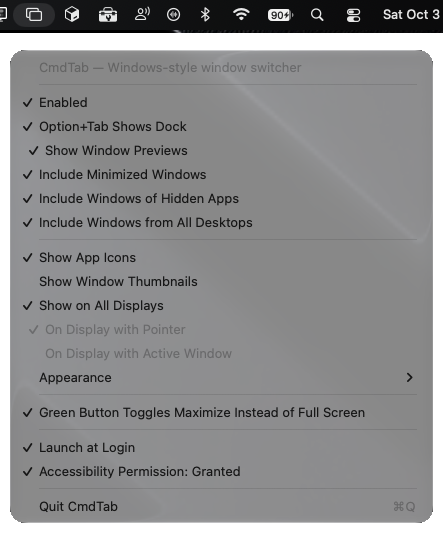
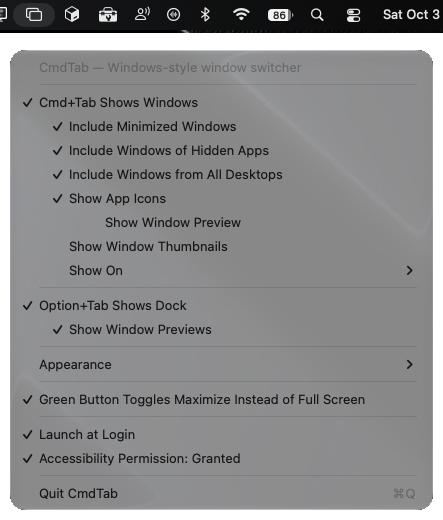
refactor: add switcher window preview option and reorganize menu structure

diff --git a/Sources/AppDelegate.swift b/Sources/AppDelegate.swift
@@ -5,7 +5,7 @@ enum Settings {
     private static let d = UserDefaults.standard
 
     static func register() {
-        d.register(defaults: ["enabled": true, "includeMinimized": true, "includeHiddenApps": true, "includeAllSpaces": false, "dockEnabled": true, "dockPreviews": false, "showOnAllDisplays": true, "switcherDisplay": "pointer", "showThumbnails": false, "appearance": "system", "greenButtonZooms": true])
+        d.register(defaults: ["enabled": true, "includeMinimized": true, "includeHiddenApps": true, "includeAllSpaces": false, "dockEnabled": true, "dockPreviews": false, "switcherPreviews": false, "showOnAllDisplays": true, "switcherDisplay": "pointer", "showThumbnails": false, "appearance": "system", "greenButtonZooms": true])
     }
 
     static var enabled: Bool {
@@ -24,6 +24,11 @@ enum Settings {
     static var dockEnabled: Bool {
         get { d.bool(forKey: "dockEnabled") }
         set { d.set(newValue, forKey: "dockEnabled") }
+    }
+    /// In icon view, the switcher previews the selected window under its icon.
+    static var switcherPreviews: Bool {
+        get { d.bool(forKey: "switcherPreviews") }
+        set { d.set(newValue, forKey: "switcherPreviews") }
     }
     /// The Option+Tab Dock previews the selected app's windows under its icon.
     static var dockPreviews: Bool {
@@ -72,24 +77,29 @@ final class AppDelegate: NSObject, NSApplicationDelegate, NSMenuDelegate {
     private var permissionTimer: Timer?
     private var signalSources: [DispatchSourceSignal] = []
 
-    private let enabledItem = NSMenuItem(title: "Enabled", action: #selector(toggleEnabled), keyEquivalent: "")
+    private let enabledItem = NSMenuItem(title: "Cmd+Tab Shows Windows", action: #selector(toggleEnabled), keyEquivalent: "")
     private let dockItem = NSMenuItem(title: "Option+Tab Shows Dock", action: #selector(toggleDock), keyEquivalent: "")
     private let dockPreviewsItem: NSMenuItem = {
         let item = NSMenuItem(title: "Show Window Previews", action: #selector(toggleDockPreviews), keyEquivalent: "")
-        item.indentationLevel = 1
+        item.indentationLevel = 3
         return item
     }()
     private let minimizedItem = NSMenuItem(title: "Include Minimized Windows", action: #selector(toggleMinimized), keyEquivalent: "")
     private let hiddenItem = NSMenuItem(title: "Include Windows of Hidden Apps", action: #selector(toggleHidden), keyEquivalent: "")
     private let allSpacesItem = NSMenuItem(title: "Include Windows from All Desktops", action: #selector(toggleAllSpaces), keyEquivalent: "")
-    private let allDisplaysItem = NSMenuItem(title: "Show on All Displays", action: #selector(toggleAllDisplays), keyEquivalent: "")
-    private let displayItems = [("On Display with Pointer", "pointer"), ("On Display with Active Window", "activeWindow")].map { title, value in
+    /// The "Show On" choices: every display, or just the one with the pointer or the active window.
+    private let displayItems = [("All Displays", "all"), ("Display with Pointer", "pointer"),
+                                ("Display with Active Window", "activeWindow")].map { title, value in
         let item = NSMenuItem(title: title, action: #selector(setSwitcherDisplay(_:)), keyEquivalent: "")
         item.representedObject = value
-        item.indentationLevel = 1
         return item
     }
     private let iconsItem = NSMenuItem(title: "Show App Icons", action: #selector(showIcons), keyEquivalent: "")
+    private let switcherPreviewItem: NSMenuItem = {
+        let item = NSMenuItem(title: "Show Window Preview", action: #selector(toggleSwitcherPreviews), keyEquivalent: "")
+        item.indentationLevel = 6
+        return item
+    }()
     private let thumbnailsItem = NSMenuItem(title: "Show Window Thumbnails", action: #selector(showThumbnails), keyEquivalent: "")
     private let appearanceItems = [("System", "system"), ("Light", "light"), ("Dark", "dark")].map { title, value in
         let item = NSMenuItem(title: title, action: #selector(setAppearance(_:)), keyEquivalent: "")
@@ -140,7 +150,6 @@ final class AppDelegate: NSObject, NSApplicationDelegate, NSMenuDelegate {
     /// While we're enabled the system switcher is off, otherwise it would pop up alongside ours.
     private func applyEnabled() {
         NativeSwitcher.setEnabled(!(Settings.enabled && tap.isRunning))
-        statusItem.button?.appearsDisabled = !Settings.enabled
     }
 
     private func installSignalHandlers() {
@@ -172,16 +181,26 @@ final class AppDelegate: NSObject, NSApplicationDelegate, NSMenuDelegate {
         menu.addItem(header)
         menu.addItem(.separator())
         menu.addItem(enabledItem)
-        menu.addItem(dockItem)
-        menu.addItem(dockPreviewsItem)
         menu.addItem(minimizedItem)
         menu.addItem(hiddenItem)
         menu.addItem(allSpacesItem)
-        menu.addItem(.separator())
         menu.addItem(iconsItem)
+        menu.addItem(switcherPreviewItem)
         menu.addItem(thumbnailsItem)
-        menu.addItem(allDisplaysItem)
-        displayItems.forEach(menu.addItem)
+        let displayMenu = NSMenu()
+        for item in displayItems {
+            item.target = self
+            displayMenu.addItem(item)
+        }
+        let displayItem = NSMenuItem(title: "Show On", action: nil, keyEquivalent: "")
+        displayItem.submenu = displayMenu
+        menu.addItem(displayItem)
+        // The Cmd+Tab options sit under "Cmd+Tab Shows Windows".
+        for item in [minimizedItem, hiddenItem, allSpacesItem, iconsItem, thumbnailsItem, displayItem] { item.indentationLevel = 3 }
+        menu.addItem(.separator())
+        menu.addItem(dockItem)
+        menu.addItem(dockPreviewsItem)
+        menu.addItem(.separator())
         let appearanceMenu = NSMenu()
         for item in appearanceItems {
             item.target = self
@@ -211,11 +230,12 @@ final class AppDelegate: NSObject, NSApplicationDelegate, NSMenuDelegate {
         minimizedItem.state = Settings.includeMinimized ? .on : .off
         hiddenItem.state = Settings.includeHiddenApps ? .on : .off
         allSpacesItem.state = Settings.includeAllSpaces ? .on : .off
-        allDisplaysItem.state = Settings.showOnAllDisplays ? .on : .off
+        let display = Settings.showOnAllDisplays ? "all" : Settings.switcherDisplay
         for item in displayItems {
-            item.state = item.representedObject as? String == Settings.switcherDisplay ? .on : .off
+            item.state = item.representedObject as? String == display ? .on : .off
         }
         iconsItem.state = Settings.showThumbnails ? .off : .on
+        switcherPreviewItem.state = Settings.switcherPreviews ? .on : .off
         thumbnailsItem.state = Settings.showThumbnails ? .on : .off
         for item in appearanceItems {
             item.state = item.representedObject as? String == Settings.appearance ? .on : .off
@@ -240,6 +260,13 @@ final class AppDelegate: NSObject, NSApplicationDelegate, NSMenuDelegate {
         let trusted = AXIsProcessTrusted()
         permissionItem.title = trusted ? "Accessibility Permission: Granted" : "Grant Accessibility Permission…"
         permissionItem.state = trusted ? .on : .off
+    }
+
+    @objc private func toggleSwitcherPreviews() {
+        Settings.switcherPreviews.toggle()
+        // Prompts (or opens System Settings) the first time; until granted, the preview shows the app icon.
+        if Settings.switcherPreviews && !Thumbnails.shared.hasPermission { CGRequestScreenCaptureAccess() }
+        updateMenu()
     }
 
     @objc private func toggleDockPreviews() {
@@ -274,22 +301,21 @@ final class AppDelegate: NSObject, NSApplicationDelegate, NSMenuDelegate {
         updateMenu()
     }
 
-    @objc private func toggleAllDisplays() {
-        Settings.showOnAllDisplays.toggle()
-        updateMenu()
-    }
-
     @objc private func setSwitcherDisplay(_ sender: NSMenuItem) {
         guard let value = sender.representedObject as? String else { return }
-        Settings.switcherDisplay = value
+        Settings.showOnAllDisplays = value == "all"
+        if value != "all" { Settings.switcherDisplay = value }
         updateMenu()
     }
 
-    /// The display choices only matter while the switcher isn't shown on every display, and Dock previews while the
-    /// Dock is on.
+    /// The Cmd+Tab options only matter while Cmd+Tab shows windows (the preview only in icon view), and Dock previews
+    /// while the Dock is on.
     @objc func validateMenuItem(_ item: NSMenuItem) -> Bool {
-        if displayItems.contains(item) { return !Settings.showOnAllDisplays }
         if item == dockPreviewsItem { return Settings.dockEnabled }
+        if item == switcherPreviewItem { return Settings.enabled && !Settings.showThumbnails }
+        if [minimizedItem, hiddenItem, allSpacesItem, iconsItem, thumbnailsItem].contains(item) || displayItems.contains(item) {
+            return Settings.enabled
+        }
         return true
     }
 

diff --git a/Sources/SwitcherController.swift b/Sources/SwitcherController.swift
@@ -23,6 +23,19 @@ final class SwitcherController {
             self.commit()
             self.onFinished?()
         }
+        // Clicking the preview switches to its window, which is the selected one.
+        panels.onPreviewClick = { [weak self] _ in
+            self?.commit()
+            self?.onFinished?()
+        }
+    }
+
+    /// In icon view, a preview of the selected window can hang below its icon, like the Dock's window previews.
+    private var showsPreview: Bool { !Settings.showThumbnails && Settings.switcherPreviews }
+
+    private func updatePreview() {
+        guard showsPreview, panels.isVisible, windows.indices.contains(selected) else { return panels.hidePreviews() }
+        panels.showPreviews(tiles: [SwitcherTile(window: windows[selected])], under: selected, selected: nil)
     }
 
     private func showPanels() {
@@ -32,6 +45,7 @@ final class SwitcherController {
         let dock = thumbnails ? [] : DockItems.current()
         panels.show(tiles: tiles, selected: selected, thumbnails: thumbnails,
                     iconsLikeDock: thumbnails ? nil : (dock.count, dock.filter(\.dividerBefore).count))
+        updatePreview()
     }
 
     func begin(backwards: Bool) {
@@ -39,11 +53,12 @@ final class SwitcherController {
         windows = WindowManager.shared.currentWindows()
         guard !windows.isEmpty else { return }
         selected = backwards ? windows.count - 1 : min(1, windows.count - 1)
-        if Settings.showThumbnails {
+        if Settings.showThumbnails || showsPreview {
             Thumbnails.shared.retain(only: windows.map(\.id))
             Thumbnails.shared.refresh(windows.map(\.id)) { [weak self] id, image in
                 guard let self, self.running else { return }
                 self.panels.setThumbnail(image, for: id)
+                self.panels.setPreviewThumbnail(image, for: id)
             }
         }
 
@@ -185,6 +200,7 @@ final class SwitcherController {
         guard windows.indices.contains(i) else { return }
         selected = i
         panels.setSelected(i)
+        if panels.isVisible { updatePreview() }
     }
 
     private func showNow() {

diff --git a/README.md b/README.md
@@ -32,7 +32,7 @@ W, Q, M and H act on the selected tile and keep the switcher open, so you can ti
 
 ## Views
 
-- **App icons** (default): one large app icon per window, styled like the native macOS switcher. The selected icon gets a darker rounded square that hugs it, and its app name floats in a bubble above it, like the Dock's. Rest the pointer on an icon to see that window's title in a tooltip.
+- **App icons** (default): one large app icon per window, styled like the native macOS switcher. The selected icon gets a darker rounded square that hugs it, and its app name floats in a bubble above it, like the Dock's. Rest the pointer on an icon to see that window's title in a tooltip. With **Show Window Preview** on, a snapshot of the selected window also hangs below its icon.
 - **Window thumbnails**: a live snapshot of each window, with the app icon and window title above it. The selected tile gets the same darker rounded background as in icon view.
 
 On macOS 26 and later, the switcher panel uses the same Liquid Glass material as the native switcher. Earlier versions get a blurred, tinted panel instead. Either way it follows the **Appearance** setting.
@@ -87,19 +87,20 @@ Opening an app activates it (launching it if needed), the same as a Dock click. 
 - **Other apps and folders:** Open, Show in Finder.
 - **Trash:** Open, Empty Trash.
 
-The menus never change your real Dock (no Keep in Dock / Remove from Dock). Items an app adds to its own Dock menu, such as a browser's New Window, aren't available to other apps, so they're not shown. The Dock follows the same **Show on All Displays** / display choice as the switcher.
+The menus never change your real Dock (no Keep in Dock / Remove from Dock). Items an app adds to its own Dock menu, such as a browser's New Window, aren't available to other apps, so they're not shown. The Dock follows the same **Show On** choice as the switcher.
 
 ## Menu
 
 The menu bar icon has these options:
 
-- **Enabled**: turn CmdTab on or off. While it's off, the system Cmd+Tab works as usual.
-- **Option+Tab Shows Dock**: turn the [Dock](#dock-optiontab) on or off. It works independently of **Enabled**.
+- **Cmd+Tab Shows Windows**: turn the window switcher on or off. While it's off, the system Cmd+Tab works as usual. Its options are indented under it:
+  - **Include Minimized Windows** / **Include Windows of Hidden Apps**: show or skip those windows.
+  - **Include Windows from All Desktops**: also list windows on other Spaces (desktops), including full-screen ones. Picking one switches to its desktop. Off by default.
+  - **Show App Icons** / **Show Window Thumbnails**: choose the view.
+    - **Show Window Preview** (icon view, off by default): a snapshot of the selected window hangs below its icon, like the Dock's window previews. Click it to switch to that window.
+  - **Show On**: where the switcher appears. **All Displays** (the default) shows it on every display; arrow keys follow the grid on the pointer's display. **Display with Pointer** or **Display with Active Window** (the display showing most of the frontmost window) shows it on just one.
+- **Option+Tab Shows Dock**: turn the [Dock](#dock-optiontab) on or off. It works independently of **Cmd+Tab Shows Windows**.
   - **Show Window Previews**: preview the selected app's windows under its icon in the Dock. Off by default.
-- **Include Minimized Windows** / **Include Windows of Hidden Apps**: show or skip those windows.
-- **Include Windows from All Desktops**: also list windows on other Spaces (desktops), including full-screen ones. Picking one switches to its desktop. Off by default.
-- **Show App Icons** / **Show Window Thumbnails**: choose the view.
-- **Show on All Displays**: show the switcher on every display, not just the one with the pointer. On by default. Arrow keys follow the grid on the pointer's display. When it's off, choose **On Display with Pointer** or **On Display with Active Window** (the display showing most of the frontmost window).
 - **Appearance**: System, Light or Dark, for the switcher panel only.
 - **Green Button Toggles Maximize Instead of Full Screen**: see [Green button](#green-button). On by default.
 - **Launch at Login**
@@ -122,7 +123,7 @@ For window thumbnails, also grant **Screen Recording** permission and relaunch C
 
 ## Notes
 
-- While CmdTab is running and enabled, it turns off the system Cmd+Tab app switcher. It turns it back on when you quit CmdTab or uncheck **Enabled**.
+- While CmdTab is running with **Cmd+Tab Shows Windows** on, it turns off the system Cmd+Tab app switcher. It turns it back on when you quit CmdTab or uncheck **Cmd+Tab Shows Windows**.
 - Permissions are tied to the code signature. When it changes (for example, the first `install.sh` run after an ad-hoc build), the install resets the old Accessibility and Screen Recording entries and you grant them once more. To sign with your own certificate instead, set `CODESIGN_IDENTITY`.
 - Like the Windows default, only windows on the current Space (desktop) are shown, unless **Include Windows from All Desktops** is on. macOS's Accessibility API doesn't list windows on other desktops, so CmdTab finds them through windows it has already seen. A window that was opened directly on another desktop, and that you haven't visited since CmdTab started, may be missing until you visit that desktop once. Windows on other desktops can't be captured live, so in thumbnail view they show their last snapshot or the app icon.
 
